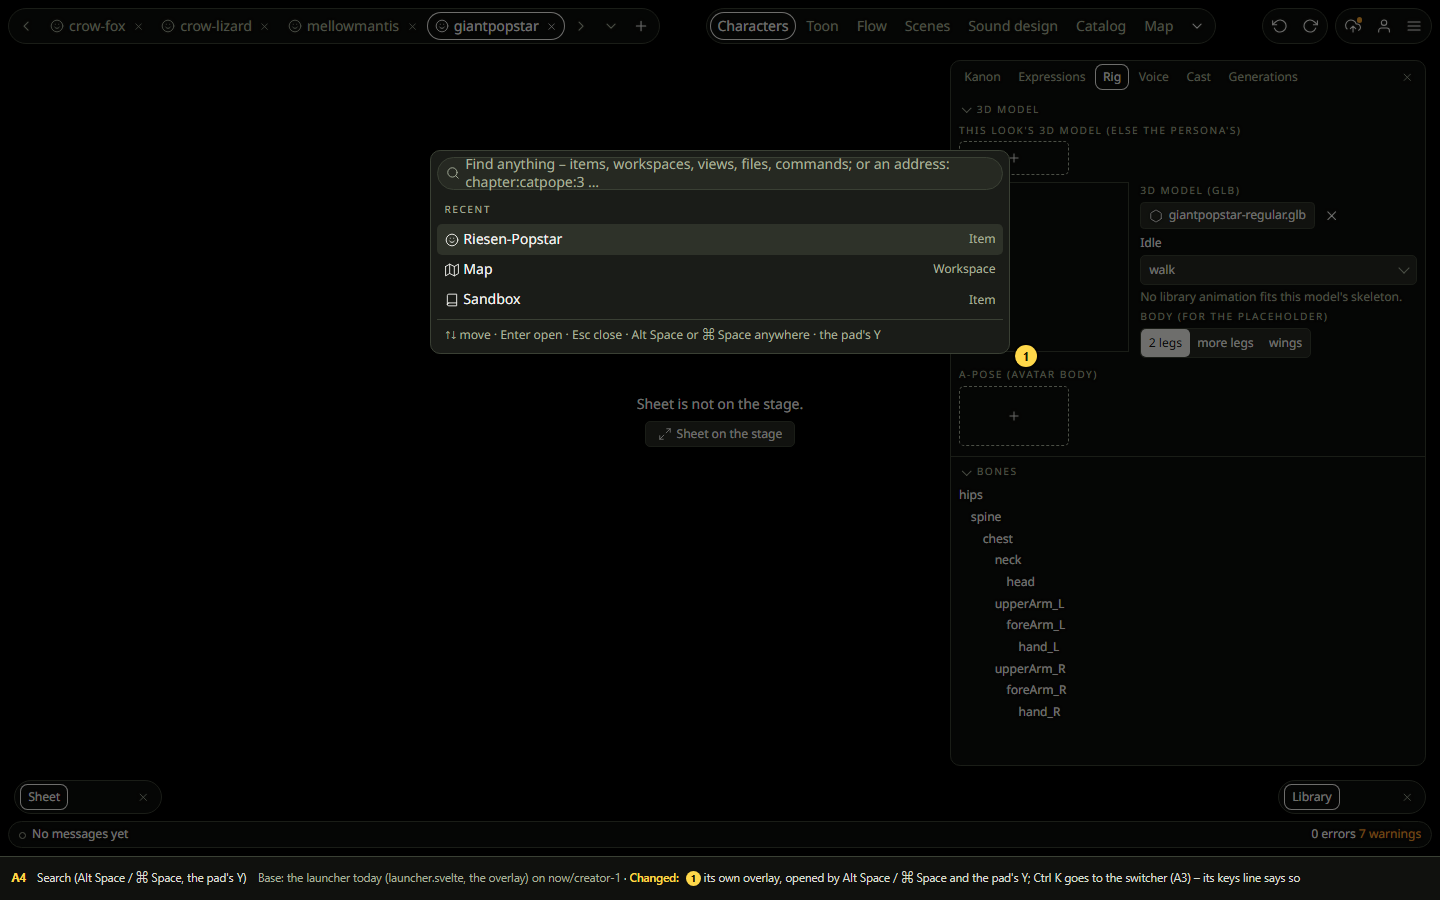
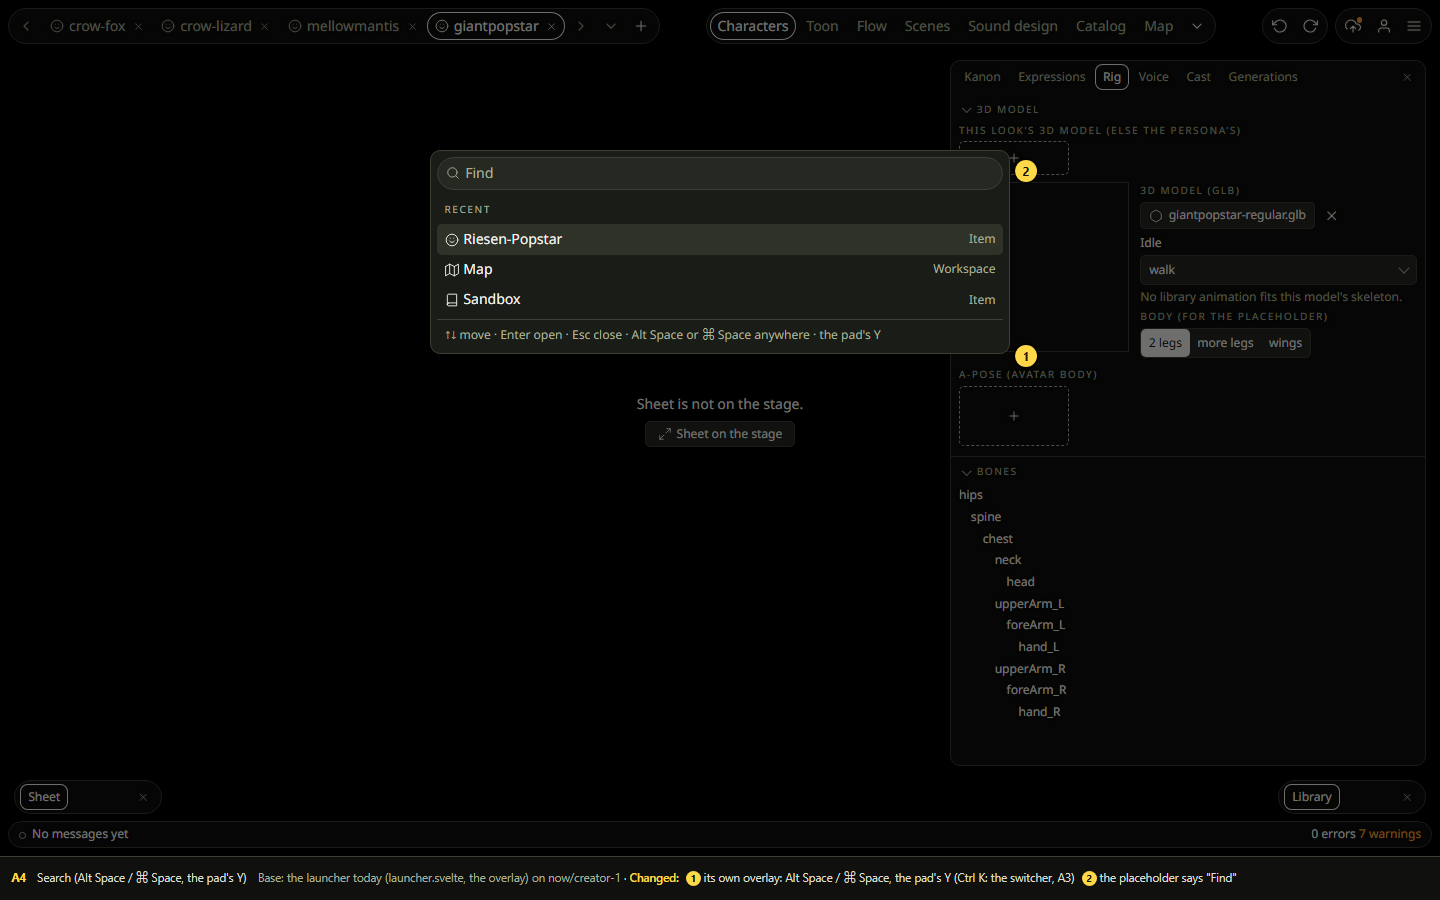
Lap 2 draft: the switcher redrawn after the owner's review – no Views on cards, one list for creator and deck (badged), A3b the deck prompt, D1 the deck's switcher, search says Find (2026-11-24). Refs #626

Changed region(s): [[0.3125, 0.1556, 0.6562, 0.2178], [0.5312, 0.9644, 0.9062, 0.9956], [0.6875, 0.1556, 0.7188, 0.2178]]

diff --git a/agents/research/redesign/lap2/draft-screens.js b/agents/research/redesign/lap2/draft-screens.js
@@ -44,31 +44,54 @@ add('A', 'A2', 'The ☰ menu open', "dashboard foot + front card's Views row (no
   ${qcard(1010, 420, "today's dashboard foot: Help (Guide, shortcuts) and Go to (Reader, Deck, Embassy, Admin)", ['into this menu', "stay on the switcher's foot (A3)"], "Not in the owner's list of 2026-11-23.", '20rem')}
   ${qcard(1010, 610, "the deck's Publish in the creator", ["the bar's Publish icon (A1) – the line goes (H1, no duplicates)", 'the menu line as today – no Publish icon in the deck bar'], '', '20rem')}`);
 
-add('A', 'A3', 'The switcher (Alt Tab / Ctrl K / ⌘K)', 'now/creator-2 (dashboard) · deck: the same design (owner 2026-11-23: "the same design dogma as the creators"), pictures from now/deck-3-*',
-  ['without its search field – search is its own feature (A4)',
-   'opened by Alt Tab / Ctrl K / ⌘K, not by ☰ any more: the menu button is not pressed',
-   "the deck's switcher: this design – cards with pictures, Last opened (the deck's Recent), the foot; none of #830's title, New buttons, Library list, Menu column or Views column"],
-  () => `${characters({ bar: { chevron: true } })}${dashboard({ noSearch: true })}
-  ${ring(14, 52, 1412, 34)}${mk(1, 20, 58)}${capn(48, 60, 'the search field was here')}${mk(2, 1405, 30)}
-  <div class="abs" style="left:600px;top:440px;width:560px;height:315px;z-index:50;border:1px solid var(--tool-line);border-radius:var(--kit-radius-box);overflow:hidden;background:#000" data-theme="night">
-    <div style="transform:scale(.35);transform-origin:0 0;width:1600px;height:900px;position:relative">${deckBarNew({ tabs: [['user','catpope'],['list','new-show'],['code','new module']], wsNames: ['?','?','?'] })}
-    <div class="abs" style="left:0;top:0;width:1440px;height:870px;transform:scale(1.111);transform-origin:0 0">${dashboard({ noSearch: true, top: 264, focus: 0, review: false,
-      last: [['user','catpope','Build · now'],['list','new-show','Show · 5 min'],['code','new module','Module · 9 min']],
-      cards: [['Build','catpope','box','front'],['Show','new-show','list','open'],['Module','new module','code','open']],
-      snap: (n, i) => `<span class="abs" style="left:.6rem;right:.6rem;top:1.8rem;height:62px;border-radius:.3rem;overflow:hidden;border:1px solid var(--tool-line)"><img src="${DK}${['deck-3-stage-workspace.png','deck-3-show-workspace.png','deck-3-module-workspace.png'][i]}" style="width:100%;height:100%;object-fit:cover"></span>` })}</div></div></div>
-  ${capn(604, 420, "Deck editor · the same switcher")}${mk(3, 1140, 418)}
-  ${qcard(1176, 440, "the deck's switcher", ['the deck shows Needs review / Not published (if it can read them) – the box as in the creator', 'the deck leaves the box out (drawn dashed)'], '', '18rem')}
-  ${qcard(14, 610, "the foot (account, Settings, Docs, Help, Go to, the build)", ['stays on the switcher as today', 'goes – the ☰ menu holds it (A2, H1)'], '', '22rem')}`);
+/* one switcher list for both apps (owner 2026-11-24, DECK-LINK.md): the creator's workspaces + the deck's (Scene · Rigging · Show), each with its
+   still (#842 / the deck's library.rs stills – a shot from now/ where there is one, else schematic), its name, its last content; a card of the other app
+   carries a kit Chip saying where it opens. No Views row on any card. */
+const still = (f, pos = 'top left') => `<img src="${f}" style="width:100%;height:100%;object-fit:cover;object-position:${pos}">`;
+const schem = (lay) => lay.map(([x, y, w, h]) => `<span class="abs" style="left:${x * 100}%;top:${y * 100}%;width:${w * 100}%;height:${h * 100}%;border:1px solid var(--tool-line);border-radius:.15rem;background:var(--tool-panel)"></span>`).join('');
+const C_CARDS = [['Characters','character:giantpopstar','smile','front', null, still('now/creator-1-character.jpg')],
+  ['Toon','toon:sandbox','book','open', null, schem([[.02,.06,.24,.88],[.7,.06,.28,.4]])],
+  ['Flow','Nothing open yet','layout'],
+  ['Scenes','scene:avatar-home','box','open', null, still('now/creator-4-scene.jpg')],
+  ['Sound design','module:arp','cpu','open', null, schem([[.7,.06,.28,.3]])],
+  ['Catalog','Nothing open yet','layout'],
+  ['Map','map','map','open', null, schem([[.02,.06,.24,.88]])],
+  ['XR','Nothing open yet','eye']];
+const D_CARDS = [['Scene','scene:avatar-home','box','open', null, still(DK + 'deck-3-stage-workspace.png', 'center')],
+  ['Rigging','rig:catpope','user','open', null, schem([[.02,.06,.22,.88],[.74,.06,.24,.88]])],
+  ['Show','show:new-show','list','open', null, still(DK + 'deck-3-show-workspace.png', 'center')]];
+const badged = (cards, b) => cards.map(c => { const k = [...c]; while (k.length < 5) k.push(''); k[4] = b; if (k[3] === 'front') k[3] = 'open'; return k; });
+const SW_CREATOR = (deck = 'Deck · running') => [...C_CARDS, ...badged(D_CARDS, deck)];
+const SW_DECK = () => [...D_CARDS.map((c, i) => i === 0 ? Object.assign([...c], { 3: 'front' }) : c), ...badged(C_CARDS, 'Creator')];
+const SW_LAST = [['smile','Riesen-Popstar','Characters · now'],['map','Map','Map · 12 min'],['book','Sandbox','Toon · 8 h']];
+
+add('A', 'A3', 'The switcher (Alt Tab / Ctrl K / ⌘K)', 'now/creator-2 (dashboard)',
+  ['no search field (A4)', 'Alt Tab / Ctrl K / ⌘K, not ☰', 'no Views row on the cards (Views: ☰ only)',
+   "one list: the deck's workspaces too, badged; Enter opens the deck there (A3b)"],
+  () => `${characters({ bar: { chevron: true } })}${dashboard({ noSearch: true, cols: 6, cards: SW_CREATOR() })}
+  ${mk(1, 20, 62)}${mk(2, 1405, 30)}${mk(3, 200, 412)}${ring(486, 467, 706, 160)}${mk(4, 478, 458)}
+  ${capn(14, 636, 'stills: a shot where now/ has one, else schematic')}
+  ${qcard(14, 664, "the foot", ['stays as today', 'goes – the ☰ menu holds it (A2)'], '', '17rem')}`);
+
+add('A', 'A3b', 'Enter on a deck card (deck not running)', 'A3 · DECK-LINK.md',
+  ["the deck not running: the browser asks once (its own dialog, scutoons-deck://)", 'the deck running: no prompt – it comes up on Scene, scene:avatar-home'],
+  () => `${characters({ bar: { chevron: true } })}${dashboard({ noSearch: true, cols: 6, focus: 8, cards: SW_CREATOR('Deck · starts') })}
+  <div class="abs" style="left:500px;top:8px;width:440px;z-index:80;padding:18px 20px 16px;border-radius:8px;background:#2b2c2f;color:#e8eaed;font:13px/1.45 system-ui,sans-serif;box-shadow:0 4px 18px rgb(0 0 0/.6);text-shadow:none">
+    <div style="font-size:15px;margin-bottom:8px">Open SCUTOONS Deck?</div>
+    <div style="color:#bdc1c6;margin-bottom:12px">https://creator.scutoons.com wants to open this application.</div>
+    <div style="display:flex;gap:8px;align-items:flex-start;color:#bdc1c6;margin-bottom:16px"><span style="flex:none;width:14px;height:14px;margin-top:2px;border:1.5px solid #9aa0a6;border-radius:2px"></span>Always allow creator.scutoons.com to open links of this type in the associated app</div>
+    <div style="display:flex;justify-content:flex-end;gap:8px"><span style="padding:6px 16px;border:1px solid #5f6368;border-radius:16px;color:#8ab4f8">Cancel</span><span style="padding:6px 16px;border-radius:16px;background:#8ab4f8;color:#202124">Open SCUTOONS Deck</span></div></div>
+  ${capn(500, 196, "the browser's own dialog, once")}${mk(1, 944, 8)}${mk(1, 478, 458)}`);
 
 add('A', 'A4', 'Search (Alt Space / ⌘ Space, the pad\'s Y)', "the launcher today (launcher.svelte, the overlay) on now/creator-1",
-  ["its own overlay, opened by Alt Space / ⌘ Space and the pad's Y; Ctrl K goes to the switcher (A3) – its keys line says so"],
+  ["its own overlay: Alt Space / ⌘ Space, the pad's Y (Ctrl K: the switcher, A3)", 'the placeholder says "Find"'],
   () => `${characters({ bar: { chevron: true } })}<div class="abs" style="inset:0;z-index:55;background:var(--tool-scrim)"></div>
   <div class="km" style="left:430px;top:150px;width:580px;z-index:60;padding:.4rem">
-    <div class="fld" style="height:2.4rem;border-radius:1.2rem;color:var(--tool-muted)">${ic('search')}Find anything – items, workspaces, views, files, commands; or an address: chapter:catpope:3 …</div>
+    <div class="fld" style="height:2.4rem;border-radius:1.2rem;color:var(--tool-muted)">${ic('search')}Find</div>
     <div class="kmh" style="margin-top:.3rem">Recent</div>
     ${[['smile','Riesen-Popstar','Item'],['map','Map','Workspace'],['book','Sandbox','Item']].map(([i, n, k], j) => `<div class="kmi ${j === 0 ? 'cur' : ''}">${ic(i)}<span class="w">${n}</span><span class="meta">${k}</span></div>`).join('')}
     <div class="cap" style="padding:.5rem .6rem .3rem;border-top:1px solid var(--tool-line);margin-top:.3rem">↑↓ move · Enter open · Esc close · Alt Space or ⌘ Space anywhere · the pad's Y</div></div>
-  ${mk(1, 1015, 345)}`);
+  ${mk(1, 1015, 345)}${mk(2, 1015, 160)}`);
 
 add('A', 'A5', 'The user menu (swipe up / account)', 'today\'s user menu (user-menu.svelte, code – no screenshot in now/)',
   [],
@@ -253,9 +276,17 @@ add('C', 'C15', 'XR (creator-only)', "epic-drafts `?s=714` (scenes session, 6c8e
 
 /* ════════ D · the deck editor's workspaces (now/deck-*, main r4781, night) ════════ */
 const DKNOTE = "the panels as on main – the deck is the kit's source (H12), no kit change";
-add('D', 'D1', 'Home', 'now/deck-3-home', ['the shared bar (A1)', 'Home beside the switcher (A3): see the card'],
-  () => `${deckShot('deck-3-home.png', deckBarNew({ tabs: [], mode: false, wsNames: ['?','?','?'] }))}${mk(1, 230, 38)}${mk(2, 560, 80)}
-  ${qcard(1000, 560, "Home and the switcher (A3)", ['Home stays the page when nothing is open, the switcher on Alt Tab / Ctrl K as in the creator', 'the switcher replaces Home (the creator has no Home)'], 'The Home page itself as on main – its look not changed here.', '24rem')}`);
+add('D', 'D1', 'Home + the switcher', 'now/deck-3-home · A3 (the same design)',
+  ['the shared bar (A1): Scene · Rigging · Show', 'the switcher as in A3, no Views on cards',
+   "one list: the creator's workspaces too, badged Creator"],
+  () => `${deckShot('deck-3-home.png', '')}
+  ${dashboard({ noSearch: true, cols: 6, focus: 0, review: false, cards: SW_DECK(),
+    last: [['box','scene:avatar-home','Scene · now'],['user','catpope','Rigging · 20 min'],['list','new-show','Show · 1 h']] })}
+  <div class="abs" style="left:0;top:0;width:1600px;height:50px;transform:scale(.9);transform-origin:0 0;z-index:50" data-theme="night">${deckBarNew({ tabs: [], mode: false, wsNames: ['Scene','Rigging','Show'], wsOn: -1 })}</div>
+  ${mk(1, 560, 30)}${mk(2, 20, 62)}${mk(3, 722, 298)}
+  ${qcard(1010, 120, "Needs review (deck)", ['the box as in the creator', 'left out (dashed)'], '', '18rem')}
+  ${qcard(14, 664, "Home or the switcher", ['Home when nothing is open, the switcher on the keys', 'the switcher replaces Home'], '', '22rem')}
+  ${qcard(350, 664, "List order", ["the app's own workspaces first (drawn)", 'the same order in both apps'], '', '17rem')}`);
 add('D', 'D2', 'Build: Rig · Library · Inspector · Audio · Info · Mixer · Camera tools · Tools', 'now/deck-3-stage-workspace (catpope open in Build)',
   ['the shared bar (A1)', 'Views: the ☰ menu\'s PANELS become Views (A2 / B1)', DKNOTE],
   () => `${deckShot('deck-3-stage-workspace.png', deckBarNew({ wsNames: ['?','?','?'] }))}${mk(1, 230, 38)}${mk(2, 1318, 38)}${capn(980, 52, 'Views in the ☰ menu (A2) or the tab\'s menu (B1)')}${mk(3, 20, 330)}`);

diff --git a/agents/research/redesign/lap2/draft.html b/agents/research/redesign/lap2/draft.html
@@ -246,15 +246,17 @@ function characters(o = {}) {
 /* the dashboard as today (now/creator-2): search field, Last opened, Needs review, the workspace cards, the foot */
 const CARDS = [['Characters','giantpopstar +4','smile','front'],['Toon','Sandbox +1','book','open'],['Flow','Nothing open yet','layout'],['Scenes','Scenes +2','box','open'],['Sound design','Module·arp','cpu','open'],['Catalog','Nothing open yet','layout'],['Map','Map','map','open']];
 function dashboard(o = {}) {
-  const x0 = 14, w = 269, gap = 16;
-  const card = ([n, what, icon, st], i) => {
-    const r = Math.floor(i / 5), c = i % 5, x = x0 + c * (w + gap), y = (o.top ?? 306) + r * 165, h = st === 'front' && !o.noViews ? 152 : 152;
-    const thumb = o.snap ? o.snap(n, i) : `<span class="ico">${i === 1 ? `<span style="display:inline-flex;gap:.5rem;align-items:center"><span style="width:1.9rem;height:1.9rem;border-radius:.3rem;background:#e7a06a;display:inline-block"></span>${ic('book')}</span>` : ic(icon)}</span>`;
-    return `<div class="dcard ${i === (o.focus ?? 1) ? 'focus' : ''}" style="left:${x}px;top:${y}px;width:${w}px;height:${h}px">${st === 'front' ? '<span class="label" style="position:absolute;left:.55rem;top:.35rem">Front</span>' : ''}${thumb}${st ? `<span class="cx">${ic('x')}</span>` : ''}
-      <span class="nm" style="${st === 'front' && !o.noViews ? 'bottom:3.6rem' : ''}">${n}</span><span class="wh label" style="${st === 'front' && !o.noViews ? 'bottom:2.4rem' : ''}">${what}</span>
-      ${st === 'front' && !o.noViews ? `<span style="position:absolute;left:.4rem;right:.4rem;bottom:.35rem;display:flex;align-items:center;gap:.4rem;height:1.6rem;padding:0 .3rem;border-radius:.3rem;${o.viewsOn ? 'box-shadow:inset 0 0 0 1px var(--tool-text)' : ''}"><span class="kib ${o.viewsOn ? 'pressed' : ''}" style="width:1.4rem;height:1.4rem;border-radius:.25rem">${ic('layout')}</span>Views <span class="cap" style="white-space:nowrap;overflow:hidden;text-overflow:ellipsis">Sheet · 3D · Kanon · Expressions…</span></span>` : ''}</div>`;
+  /* cards: [name, last content, icon, state ('front' | 'open' | ''), badge (kit Chip: where it opens), picture (html)]; no Views row on a card (owner 2026-11-24) */
+  const cols = o.cols || 5, x0 = 14, gap = 16, w = Math.floor((1412 - (cols - 1) * gap) / cols);
+  const card = ([n, what, icon, st, badge, pic], i) => {
+    const r = Math.floor(i / cols), c = i % cols, x = x0 + c * (w + gap), y = (o.top ?? 306) + r * 165, h = 152;
+    const thumb = pic ? `<span class="abs" style="left:.6rem;right:.6rem;top:1.8rem;height:72px;border-radius:.3rem;overflow:hidden;border:1px solid var(--tool-line);background:var(--tool-ground)">${pic}</span>`
+      : o.snap ? o.snap(n, i) : `<span class="ico">${i === 1 ? `<span style="display:inline-flex;gap:.5rem;align-items:center"><span style="width:1.9rem;height:1.9rem;border-radius:.3rem;background:#e7a06a;display:inline-block"></span>${ic('book')}</span>` : ic(icon)}</span>`;
+    return `<div class="dcard ${i === (o.focus ?? 1) ? 'focus' : ''}" style="left:${x}px;top:${y}px;width:${w}px;height:${h}px">${st === 'front' ? '<span class="label" style="position:absolute;left:.55rem;top:.35rem">Front</span>' : ''}${thumb}${st && !badge ? `<span class="cx">${ic('x')}</span>` : ''}
+      <span class="nm">${n}</span><span class="wh label" style="text-transform:none;letter-spacing:0">${what}</span>
+      ${badge ? `<span class="kc on" style="position:absolute;right:.55rem;bottom:1.85rem">${badge}</span>` : ''}</div>`;
   };
-  const search = o.noSearch ? '' : `<div class="abs fld" style="left:14px;right:14px;top:56px;height:2.1rem;border-radius:1.05rem;color:var(--tool-muted);background:var(--tool-popover)">${ic('search')}Find anything – items, workspaces, views, files, commands; or an address: chapter:catpope:3 …</div>`;
+  const search = o.noSearch ? '' : `<div class="abs fld" style="left:14px;right:14px;top:56px;height:2.1rem;border-radius:1.05rem;color:var(--tool-muted);background:var(--tool-popover)">${ic('search')}Find</div>`;
   const by = o.by ?? 99;
   return `<div class="dash">${search}
   <div class="abs box" style="left:14px;width:700px;top:${by}px;height:165px;background:var(--tool-popover)"><div class="label" style="margin-bottom:.6rem">Last opened</div>

diff --git a/agents/research/redesign/lap2/SCREENS.md b/agents/research/redesign/lap2/SCREENS.md
@@ -8,8 +8,9 @@ Every screen is drawn **from its base** – today's screen (`now/`) or an existi
 |---|---|---|---|
 | A1 | The bar | now/creator-1, deck-bar | one bar for both: item tabs · workspace row (always its ⌄ "all workspaces") · undo redo Publish account ☰, icons only (points 30, 34–37, 41, 47) |
 | A2 | The ☰ menu open | dashboard foot + front card | the owner's list (points 34, 36, 39): Views with Save workspace · Search · Settings · Docs · the build (version, account, load meters) · the edit language (note 2) |
-| A3 | The switcher (Alt Tab / Ctrl K / ⌘K) | now/creator-2 | today's dashboard without its search field; not on the ☰ any more (note 1) |
-| A4 | Search (Alt Space / ⌘ Space, the pad's Y) | the launcher today | its own overlay (points 24, 25, 37) |
+| A3 | The switcher (Alt Tab / Ctrl K / ⌘K) | now/creator-2 | today's dashboard without its search field; not on the ☰ any more (note 1) · **redrawn 2026-11-24 after the review:** no Views row on any card (Views: ☰ only) and one list with the deck's Scene · Rigging · Show, each card still + name + last content, a deck card badged "Deck · running / starts" (owner: "vice versa … more seamless") |
+| A3b | Enter on a deck card | A3, DECK-LINK.md | new: the deck not running – the browser's one-time "Open SCUTOONS Deck?" over the switcher; running – no prompt, the deck comes up on that workspace and item |
+| A4 | Search (Alt Space / ⌘ Space, the pad's Y) | the launcher today | its own overlay (points 24, 25, 37); placeholder just "Find" (owner 2026-11-24: "too long placeholder text") |
 | A5 | The user menu (swipe up / account) | today's user menu | switch the signed-in user (point 56) |
 | A6 | The status bar | today | – (in the set for completeness) |
 | A7 | First open | creator first login (crafts question) · deck Home | the deck's first open (point 53) beside the creator's |
@@ -49,7 +50,7 @@ Every screen is drawn **from its base** – today's screen (`now/`) or an existi
 ## D. The deck editor's workspaces (as on main today, plus #830's)
 | # | Screen | Base | What changes |
 |---|---|---|---|
-| D1 | Home | deck-home | the shared bar (A1); its place beside the switcher (A3) |
+| D1 | Home + the switcher | deck-home, A3 | the shared bar (A1); **redrawn 2026-11-24:** the deck's switcher in A3's design over Home ("the same design dogma as the creators"), the one list with the creator's workspaces badged "Creator", no Views on cards; Home vs switcher and the list order left to the owner |
 | D2 | Build: Rig · Library · Inspector · Audio · Info · Mixer · Camera tools · Tools | deck-build | the shared bar, Views (B1), the kit look |
 | D3 | Show: Outline · Inspector · Sheet · Nodes · Library · Rows · Session · Stage now · Next | deck-show | same |
 | D4 | Module: Library · Drives · Module · Problems | deck-module | same |
